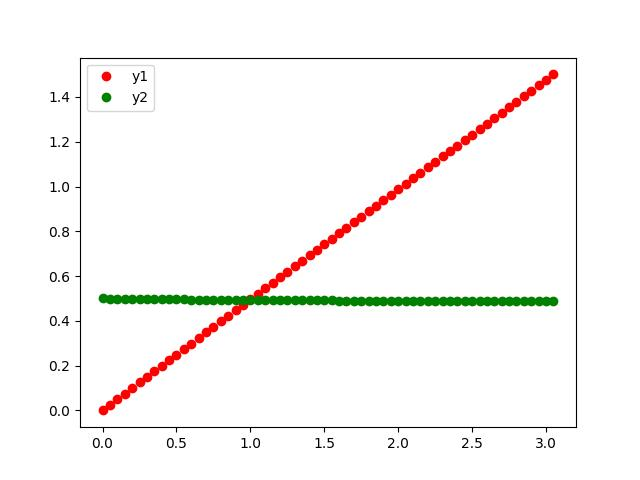
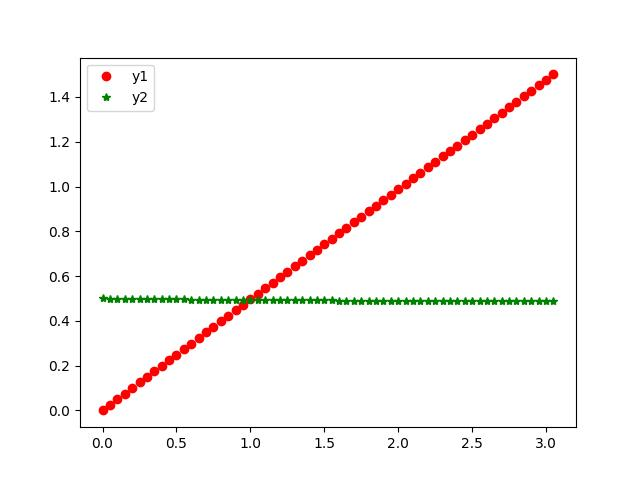
Fix algorythm

Changed region(s): [[0.1562, 0.5938, 0.875, 0.6562], [0.1562, 0.1875, 0.1875, 0.2188]]

diff --git a/golden_ratio/algorythm.py b/golden_ratio/algorythm.py
@@ -41,7 +41,7 @@ def golden_algorythm(start: float, end: float, eps: float = 0.001) -> float:
             current_left = current_right
             current_right = calculate_golden_right(current_a, current_b)
 
-    return (current_b - current_a) * 0.5
+    return (current_b + current_a) * 0.5
 
 
 def calculate_golden_right(start: float, end: float) -> float:

diff --git a/diff_eq/algorythm.py b/diff_eq/algorythm.py
@@ -149,7 +149,7 @@ def plot_results(algorythm: BaseAlgorythm, params: list, path: str = ""):
     y_values = np.array(y_values)
 
     plt.plot(x_values, y_values[:, 0], "ro")
-    plt.plot(x_values, y_values[:, 1], "go")
+    plt.plot(x_values, y_values[:, 1], "g*")
     plt.legend(["y1", "y2"])
     if path:
         plt.savefig(path)
